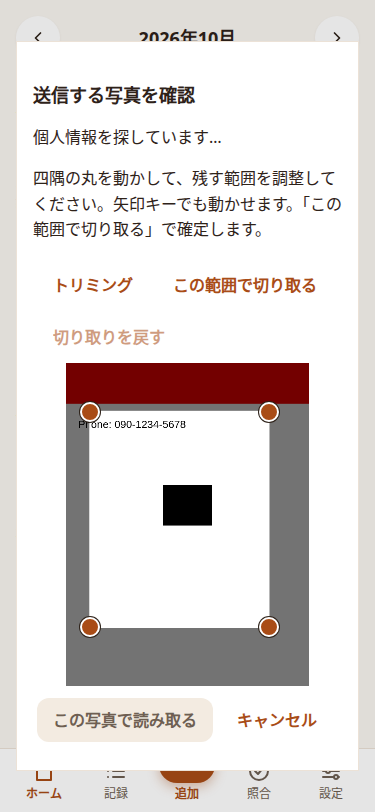
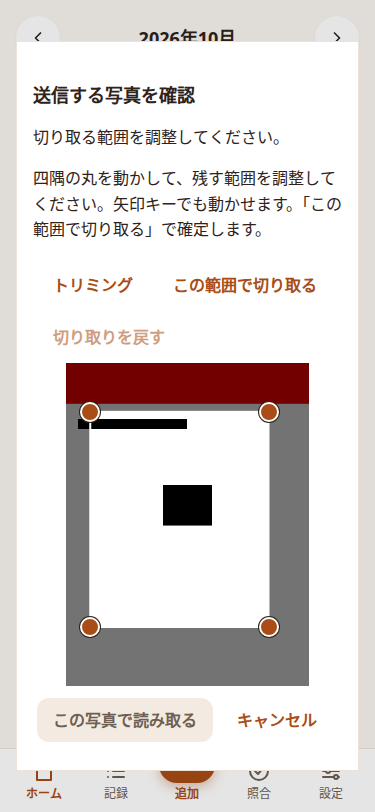
fix: 検出完了でトリミング操作中の写真が動く問題を修正

Changed region(s): [[0.088, 0.1539, 0.7333, 0.1847], [0.2053, 0.4926, 0.4987, 0.5542]]

diff --git a/apps/pwa/src/receipt-image-privacy.ts b/apps/pwa/src/receipt-image-privacy.ts
@@ -91,6 +91,11 @@ export async function prepareReceiptImage(file: Blob, signal: AbortSignal): Prom
       const full = { x: 0, y: 0, width: original.width, height: original.height };
       let view = { ...full }, selection = { ...full };
       let cropMode = false, detectionDone = false;
+      let detectionStatus = status.textContent ?? '';
+      const updateDetectionStatus = (message: string) => {
+        detectionStatus = message;
+        if (!cropMode && !start) status.textContent = message;
+      };
       type Corner = 'top-left' | 'top-right' | 'bottom-left' | 'bottom-right';
       const frameElement = document.createElement('div'); frameElement.className = 'receipt-crop-frame'; frameElement.append(canvas);
       const handles = new Map<Corner, HTMLButtonElement>();
@@ -144,9 +149,11 @@ export async function prepareReceiptImage(file: Blob, signal: AbortSignal): Prom
       };
       const endDrag = (event: PointerEvent) => {
         updateDrag(event); if (dragging) masks.push(dragging);
-        start = null; dragging = null; cropCorner = null; redraw();
+        start = null; dragging = null; cropCorner = null;
+        if (!cropMode) status.textContent = detectionStatus;
+        redraw();
       };
-      const cancelDrag = () => { start = null; dragging = null; cropCorner = null; redraw(); };
+      const cancelDrag = () => { start = null; dragging = null; cropCorner = null; if (!cropMode) status.textContent = detectionStatus; redraw(); };
       canvas.onpointerdown = event => { if (cropMode) return; start = point(event); canvas.setPointerCapture(event.pointerId); updateDrag(event); };
       canvas.onpointermove = updateDrag; canvas.onpointerup = endDrag; canvas.onpointercancel = cancelDrag;
       const cornerLabels = { 'top-left': '左上', 'top-right': '右上', 'bottom-left': '左下', 'bottom-right': '右下' } as const;
@@ -173,6 +180,8 @@ export async function prepareReceiptImage(file: Blob, signal: AbortSignal): Prom
       const setCropMode = (enabled: boolean) => {
         cancelDrag(); cropMode = enabled; crop.setAttribute('aria-pressed', String(enabled)); applyCrop.hidden = !enabled;
         help.hidden = enabled; frameElement.dataset.cropping = String(enabled);
+        // Detection may finish while a corner is held: keep the photo in place.
+        status.textContent = enabled ? '切り取る範囲を調整してください。' : detectionStatus;
         hint.textContent = enabled ? '四隅の丸を動かして、残す範囲を調整してください。矢印キーでも動かせます。「この範囲で切り取る」で確定します。' : maskHint;
         send.disabled = !detectionDone || enabled; redraw();
       };
@@ -204,12 +213,12 @@ export async function prepareReceiptImage(file: Blob, signal: AbortSignal): Prom
         redraw();
       }).then(result => {
         if (closed) return;
-        status.textContent = result.failed ? '自動検出できなかった箇所があります。写真を確認して隠す範囲を追加してください。' : '個人情報と思われる箇所を隠しました。残っていないか確認してください。';
+        updateDetectionStatus(result.failed ? '自動検出できなかった箇所があります。写真を確認して隠す範囲を追加してください。' : '個人情報と思われる箇所を隠しました。残っていないか確認してください。');
         detectionDone = true; send.disabled = cropMode;
         redraw();
       }, () => {
         if (closed) return;
-        status.textContent = '自動検出できませんでした。写真を確認して隠す範囲を追加してください。';
+        updateDetectionStatus('自動検出できませんでした。写真を確認して隠す範囲を追加してください。');
         detectionDone = true; send.disabled = cropMode;
       });
     });
